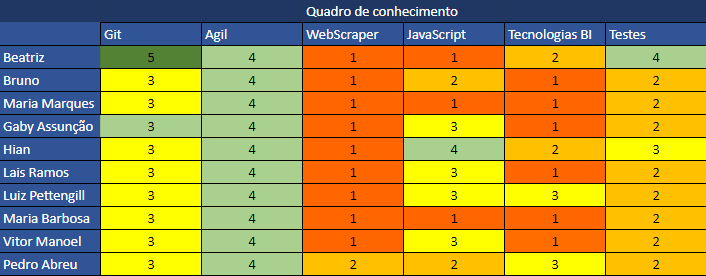
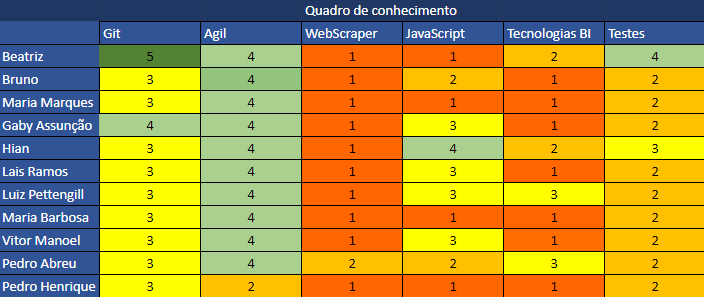
fix

diff --git a/docs/DocumentoDeArquitetura.md b/docs/DocumentoDeArquitetura.md
@@ -1,46 +1,68 @@
 # Documento de Arquitetura
+
 ## Histórico de Revisão
-| Data | Versão | Descrição | Autor
-| --- | --- | --- | --- | 
-| 01/02/2022 | 0.1 | início da criação dos tópicos da introdução | Maria Eduarda B. e Vitor Manoel|
-| 03/02/2022 | 0.2 | montagem da estrutura do documento e das tecnologias do tópico Representação arquitetural | Maria Eduarda B. e Vitor Manoel|
-| 06/02/2022 | 0.3 | criação dos conteúdos dos subtópicos 2.1 e 2.2 | Maria Eduarda B.|
-|  |  |  |  |
+
+| Data       | Versão | Descrição                                                                                 | Autor                                                                                     |
+| ---------- | ------ | ----------------------------------------------------------------------------------------- | ----------------------------------------------------------------------------------------- |
+| 01/02/2022 | 0.1    | início da criação dos tópicos da introdução                                               | [@Madu01](https://github.com/Madu01) e [@vitormanoel17](https://github.com/vitormanoel17) |
+| 03/02/2022 | 0.2    | montagem da estrutura do documento e das tecnologias do tópico Representação arquitetural | [@Madu01](https://github.com/Madu01) e [@vitormanoel17](https://github.com/vitormanoel17) |
+| 06/02/2022 | 0.3    | criação dos conteúdos dos subtópicos 2.1 e 2.2                                            | [@Madu01](https://github.com/Madu01)                                                      |
+|            |        |                                                                                           |                                                                                           |
+
 ## 1. Introdução
+
 ### 1.1 Escopo
 
 ### 1.2 Objetivo
+
 Este documento apresenta de forma ampla a arquitetura do software do projeto, como as tecnologias a serem utilizadas e os diagramas da visão geral da arquitetura. As informações apresentadas neste documento será de modo que guie os desenvolvedores e envolvidos a aplicar tais instruções no processo de desenvolvimento do projeto.
+
 ### 1.3 Abreviações e Termos
-| Sigla/Termo | Conceito | 
-| --- | --- | 
-|  |  |
+
+| Sigla/Termo | Conceito |
+| ----------- | -------- |
+|             |          |
+
 ## 2. Representação Arquitetural
+
 ### 2.1 HTML
-Em 1991 iniciou o HTML, sua abreviação é HyperText Markup Language, traduzindo para o português significa "Linguagem de Marcação de Hipertexto" e a sua versão mais recente é o HTML5, trazendo utilidades e meios para um melhor desenvolvimento web. A principal função do HTML é demarcar a estrutura de uma página da web. As estruturas demarcadas são os elementos que também são chamados de tags HTML. Na página esses elementos são textos (títulos, parágrafos e subtítulos), botões, imagens, áudios, etc..., ou seja, são hipertextos que juntos compõem a estrutura básica de uma página da web. 
 
-A estrutura das tags são iniciadas com o sinal “<”, logo depois vem o nome do elemento e terminam com o sinal “>” ` (ex.: <h1>)`. Há dois tipos de tags, as que precisam ser fechadas e as que já se fecham sozinhas. O fechamento definitivo de uma tag ocorre pela barra “/” `(ex.: <h1> Bom dia! </h1>)` e as que se fecham sozinhas não precisam da barra `(ex.: <img src="capa.jpg">)`.  
+Em 1991 iniciou o HTML, sua abreviação é HyperText Markup Language, traduzindo para o português significa "Linguagem de Marcação de Hipertexto" e a sua versão mais recente é o HTML5, trazendo utilidades e meios para um melhor desenvolvimento web. A principal função do HTML é demarcar a estrutura de uma página da web. As estruturas demarcadas são os elementos que também são chamados de tags HTML. Na página esses elementos são textos (títulos, parágrafos e subtítulos), botões, imagens, áudios, etc..., ou seja, são hipertextos que juntos compõem a estrutura básica de uma página da web.
 
-Para que o navegador consiga interpretar um documento em HTML, o arquivo deverá ter a extensão .html `(ex.: index.html)` e só assim o documento poderá ser lido e exposto por qualquer navegador web.  
+A estrutura das tags são iniciadas com o sinal “<”, logo depois vem o nome do elemento e terminam com o sinal “>” ` (ex.: <h1>)`. Há dois tipos de tags, as que precisam ser fechadas e as que já se fecham sozinhas. O fechamento definitivo de uma tag ocorre pela barra “/” `(ex.: <h1> Bom dia! </h1>)` e as que se fecham sozinhas não precisam da barra `(ex.: <img src="capa.jpg">)`.
 
-Essa tecnologia foi escolhida para o desenvolvimento do software do projeto por ser a estrutura mais básica na parte visual de um plugin numa página da web, nela vamos dá o início na aparência do plugin colocando a princípio os textos (títulos e subtítulos) e imagens. 
+Para que o navegador consiga interpretar um documento em HTML, o arquivo deverá ter a extensão .html `(ex.: index.html)` e só assim o documento poderá ser lido e exposto por qualquer navegador web.
+
+Essa tecnologia foi escolhida para o desenvolvimento do software do projeto por ser a estrutura mais básica na parte visual de um plugin numa página da web, nela vamos dá o início na aparência do plugin colocando a princípio os textos (títulos e subtítulos) e imagens.
+
 ### 2.2 CSS
-O CSS foi apresentado em 1994, sua abreviação é Cascading Style Sheets que em português significa “Folhas de Estilo em Cascatas”, ele melhora a aparência das páginas da internet estilizando os elementos que compõem as linguagens de marcação, como XML, HTML e XHTML. A princípio o CSS foi feito para separar o conteúdo e formato de um documento da sua aparência, sua última versão apresentada é o CSS3. 
 
-A estrutura básica do CSS é formada por seletor (escolhe o elemento a ser estilizado), declaração (especifica quais das propriedades do elemento vão ser estilizados), propriedades (o atributo do elemento ao qual será aplicada a regra) e o valor da propriedade (escolhe uma dentre muitas características possíveis para uma determinada propriedade, como a cor, o fundo a formatação da letra, etc.). A imagem abaixo ilustra melhor a estrutura: 
+O CSS foi apresentado em 1994, sua abreviação é Cascading Style Sheets que em português significa “Folhas de Estilo em Cascatas”, ele melhora a aparência das páginas da internet estilizando os elementos que compõem as linguagens de marcação, como XML, HTML e XHTML. A princípio o CSS foi feito para separar o conteúdo e formato de um documento da sua aparência, sua última versão apresentada é o CSS3.
+
+A estrutura básica do CSS é formada por seletor (escolhe o elemento a ser estilizado), declaração (especifica quais das propriedades do elemento vão ser estilizados), propriedades (o atributo do elemento ao qual será aplicada a regra) e o valor da propriedade (escolhe uma dentre muitas características possíveis para uma determinada propriedade, como a cor, o fundo a formatação da letra, etc.). A imagem abaixo ilustra melhor a estrutura:
 
 ![img_exemplo](https://user-images.githubusercontent.com/64814266/152714314-9cae6e74-588d-438c-99e6-8f6cefbfde05.png)
 
-A ação do CSS é feita por um documento cujo a extensão deverá ser .css `(ex.: estilo.css)` para que o arquivo possa funcionar. O arquivo em CSS é separado do arquivo em linguagem de marcação e ocorre um processo de linkar para que o documento em CSS seja ligado ao da linguagem de marcação, assim possibilitando a estilização das páginas com linguagens como HTML, XML, etc.  
+A ação do CSS é feita por um documento cujo a extensão deverá ser .css `(ex.: estilo.css)` para que o arquivo possa funcionar. O arquivo em CSS é separado do arquivo em linguagem de marcação e ocorre um processo de linkar para que o documento em CSS seja ligado ao da linguagem de marcação, assim possibilitando a estilização das páginas com linguagens como HTML, XML, etc.
 
-Utilizaremos esta tecnologia no desenvolvimento do nosso projeto por permitir uma flexibilização maior e controle na estilização da linguagem de marcação HTML, além disso, o CSS reduz a repetição do conteúdo estrutural de uma página. Desse modo HTML seria a base que estrutura o conteúdo e o CSS seria as características visuais do conteúdo, de modo simbólico o HTML seria as bordas de uma estrutura e o CSS preencheria o meio onde não há uma estilização. 
+Utilizaremos esta tecnologia no desenvolvimento do nosso projeto por permitir uma flexibilização maior e controle na estilização da linguagem de marcação HTML, além disso, o CSS reduz a repetição do conteúdo estrutural de uma página. Desse modo HTML seria a base que estrutura o conteúdo e o CSS seria as características visuais do conteúdo, de modo simbólico o HTML seria as bordas de uma estrutura e o CSS preencheria o meio onde não há uma estilização.
+
 ### 2.3 JavaScript
+
 ### 2.4 Web Scraper
+
 ## 3. Metas e Restrições arquiteturais
+
 ## 4. Visão de Casos de Uso
+
 ## 5. Visão Lógica
+
 ### 5.1 Visão Geral
+
 ### 5.2 Diagrama de Pacotes
+
 ## 6. Visão de Implementação
+
 ## 7. Referências
+
 > Documento de Arquitetura : Acácia. Disponível em: https://fga-eps-mds.github.io/2019.2-Acacia/#/architecture_document?id=documento-de-arquitetura. Acesso em 03/02/2022;

diff --git a/docs/DocumentoDeVisao.md b/docs/DocumentoDeVisao.md
@@ -2,10 +2,10 @@
 
 ## Histórico de Revisão
 
-| Data       | Versão | Descrição             | Autor(es)      |
-| ---------- | ------ | --------------------- | -------------- |
-| 31/01/2022 | 1.0    | Abertura do Documento | Bruno Oliveira |
-| 02/02/2022 | 1.1    | Adição do escopo e de mais algumas informações do projeto | Beatriz Santos, Hian Praxedes e Maria Eduarda Marques |
+| Data       | Versão | Descrição                                                 | Autor(es)                                                                                                                                             |
+| ---------- | ------ | --------------------------------------------------------- | ----------------------------------------------------------------------------------------------------------------------------------------------------- |
+| 31/01/2022 | 1.0    | Abertura do Documento                                     | [@eng-Bruno](https://github.com/eng-Bruno)                                                                                                            |
+| 02/02/2022 | 1.1    | Adição do escopo e de mais algumas informações do projeto | [@beatrizSO](https://github.com/beatrizSO), [@HianPraxedes](https://github.com/HianPraxedes) e [@EduardaSMarques](https://github.com/EduardaSMarques) |
 
 ## 1. Introdução
 
@@ -25,7 +25,6 @@ Assim tornando mais intuitivo a ultilização da plataforma para os usuários.
 | _SIGAA_    | Sistema Integrado de Gestão de Atividades Acadêmicas |
 | _MDS_      | Métodos de Desenvolvimento de Software               |
 
-
 ## 1.3 Referências:
 
 > Documento de Visão: IBM. Disponível em: https://www.ibm.com/docs/pt-br/elm/6.0.5?topic=requirements-vision-document. Acesso em 31/01/2022;
@@ -42,7 +41,6 @@ Neste documento é apresentado o software desenvolvido de forma detalhada, para 
 
 Com o aumento do uso do SIGAA sugiu uma necessidade criar de alguma ferramenta que auxiliasse no uso da plataforma, assim otimizando o tempo dos usuarios. Tendo em vista isso, buscamos suprir essa demanda com o (Nome do produto). Assim conseguindo cada vez mais uma praticidade para a vida do estudantes que ultilizam essa plataforma.
 
-
 ## 2.2 Descrição do Problema
 
 O atual sistema do SIGAA, durante a solicitação de matrícula não permite a visualização das matérias que o aluno já cursou nem as obrigatórias ou a quantidade de créditos que ainda faltam para a finalização do seu curso, nem as matérias que equivalem umas as outras, dificultando assim a visualização clara do aluno.
@@ -57,23 +55,23 @@ Para o aluno faz a matrícula. O (NossoProdutoSemNome) é um plugin que auxilia 
 
 ## 3.1 Demográficos de Mercado
 
-| Nome | Descrição | Responsabilidade |
-| - | - | - |
-| Avaliador(es) | Professor(es) da disciplina de MDS | Avaliar a qualidade do projeto desenvolvido pelos alunos de MDS |
-| Desenvolvedores | Estudantes da Disciplina MDS da UnB FGA | Criar e manter documentos; Desenvolver e testar o software |
+| Nome            | Descrição                               | Responsabilidade                                                |
+| --------------- | --------------------------------------- | --------------------------------------------------------------- |
+| Avaliador(es)   | Professor(es) da disciplina de MDS      | Avaliar a qualidade do projeto desenvolvido pelos alunos de MDS |
+| Desenvolvedores | Estudantes da Disciplina MDS da UnB FGA | Criar e manter documentos; Desenvolver e testar o software      |
 
 ## 3.2 Resumo da Parte Interessada
 
-| Nome      | Representa | Responsabilidade |
-| ----------- | ---------- | ------------------ |
-| Usuário do produto | Alunos da UNB | Utilizar as funcionalidades do plugin |
-| Equipe de Desenvolvimento |Equipe formada por alunos da disciplina de MDS| Documentar, desenvolver, testar e implementar o software |
-| Professora | Professora responsável pela disciplina de MDS | Orientar e avaliar os trabalhos realizados pelas equipes. |
+| Nome                      | Representa                                     | Responsabilidade                                          |
+| ------------------------- | ---------------------------------------------- | --------------------------------------------------------- |
+| Usuário do produto        | Alunos da UNB                                  | Utilizar as funcionalidades do plugin                     |
+| Equipe de Desenvolvimento | Equipe formada por alunos da disciplina de MDS | Documentar, desenvolver, testar e implementar o software  |
+| Professora                | Professora responsável pela disciplina de MDS  | Orientar e avaliar os trabalhos realizados pelas equipes. |
 
 ## 3.3 Resumo do Usuário
 
-| Nome      | Descrição | Parte Interessada |
-| ----------- | ---------- | ------------------ |
+| Nome             | Descrição                                                                 | Parte Interessada  |
+| ---------------- | ------------------------------------------------------------------------- | ------------------ |
 | Discentes da UNB | Este usuário será quem utilizará as funcionalidades disponíveis no plugin | Usuário do produto |
 
 ## 3.4 Ambiente do Usuário
@@ -84,13 +82,12 @@ Para o aluno faz a matrícula. O (NossoProdutoSemNome) é um plugin que auxilia 
 
 ## 3.7 Principais Necessidades da Parte Interessada ou do Usuário
 
-| Necessidade| Prioridade | Interesses      | Solução atual      |   Solução proposta |
-| ---------- | ------ | --------------------- | -------------- | -------------- |
-| Visualizar matérias equivalentes | 1.0   | Aluno | Procurar equivalências de matéria por matéria no SIGAA | Equivalências de todas as matérias listadas para o aluno |
-| Visualizar disciplinas que faltam na estrutura curricular | 1.0    | Aluno  | Download do histórico do aluno para a visualização das matérias que faltam ou buscar pela estrutura do curso |   Exibir as matérias restantes sem trabalho do aluno |
-| Visualizar graficos com a quantidade de créditos obrigatórios, optativos e módulo livre que falta para o término da graduação | 1.0    | Aluno  | Download do histórico, separação e soma da quantidade de matérias e créditos obrigatórios, optativos e de módulo livre | gráfico mostrando os créditos de cada modalidade |
+| Necessidade                                                                                                                   | Prioridade | Interesses | Solução atual                                                                                                          | Solução proposta                                         |
+| ----------------------------------------------------------------------------------------------------------------------------- | ---------- | ---------- | ---------------------------------------------------------------------------------------------------------------------- | -------------------------------------------------------- |
+| Visualizar matérias equivalentes                                                                                              | 1.0        | Aluno      | Procurar equivalências de matéria por matéria no SIGAA                                                                 | Equivalências de todas as matérias listadas para o aluno |
+| Visualizar disciplinas que faltam na estrutura curricular                                                                     | 1.0        | Aluno      | Download do histórico do aluno para a visualização das matérias que faltam ou buscar pela estrutura do curso           | Exibir as matérias restantes sem trabalho do aluno       |
+| Visualizar graficos com a quantidade de créditos obrigatórios, optativos e módulo livre que falta para o término da graduação | 1.0        | Aluno      | Download do histórico, separação e soma da quantidade de matérias e créditos obrigatórios, optativos e de módulo livre | gráfico mostrando os créditos de cada modalidade         |
 
 ## 3.8 Alternativas e Concorrência
 
 A alternativa atual é fazer todo o processo manualmente, avegando em vários locais difententes dentro do SIGAA, com buscas cansativas matéria por matéria e cálculos, dado que hoje não existem ferramentas que facilitem o processo.
-

diff --git a/README.md b/README.md
@@ -17,19 +17,28 @@ O Plugin Sigaa Aluno tem como principal objetivo facilitar o uso do software Sig
 
 <i>Release 02</i> - 26/04/2022 </strong>
 
+## ⚙ Tecnologias
+
+- [JavaScript](https://www.javascript.com/)
+
+- [Web Scraper](https://webscraper.io/)
+
 ## 🤝 Colaboradores
 
 | Nome                      | Github                                                     |
 | ------------------------- | ---------------------------------------------------------- |
-| Gabrielly Assunção        | [@GabriellyAssuncao](https://github.com/GabriellyAssuncao) |
-| Laís Ramos                | [@laisramos123](https://github.com/laisramos123)           |
+| Beatriz Santos            | [@beatrizSO](https://github.com/beatrizSO)                 |
 | Bruno Oliveira            | [@eng-Bruno](https://github.com/eng-Bruno)                 |
-| Luiz Guilherme Pettengill | [@LuizPettengill](https://github.com/LuizPettengill)       |
-| Pedro Henrique Elias      | [@Elios630](https://github.com/Elios630)                   |
-| Pedro Marcos Abreu        | [@ahbreu](https://github.com/ahbreu)                       |
+| Gabrielly Assunção        | [@GabriellyAssuncao](https://github.com/GabriellyAssuncao) |
 | Hian Praxedes             | [@HianPraxedes](https://github.com/HianPraxedes)           |
-| Vitor Manoel              | [@vitormanoel17](https://github.com/vitormanoel17)         |
+| Laís Ramos                | [@laisramos123](https://github.com/laisramos123)           |
+| Luiz Guilherme Pettengill | [@LuizPettengill](https://github.com/LuizPettengill)       |
 | Maria Eduarda Barbosa     | [@Madu01](https://github.com/Madu01)                       |
 | Maria Eduarda Marques     | [@EduardaSMarques](https://github.com/EduardaSMarques)     |
-| Beatriz Santos            | [@beatrizSO](https://github.com/beatrizSO)                 |
-| Filipe Pereira            | [@16bits](https://github.com/16bits)                       |
+| Pedro Henrique Elias      | [@Elios630](https://github.com/Elios630)                   |
+| Pedro Marcos Abreu        | [@ahbreu](https://github.com/ahbreu)                       |
+| Vitor Manoel              | [@vitormanoel17](https://github.com/vitormanoel17)         |
+
+## Licença
+
+GNU GENERAL PUBLIC LICENSE © Plugin Sigaa Aluno. [LICENSE](/LICENSE)

diff --git a/docs/sprints/sprint1/Planejamento.md b/docs/sprints/sprint1/Planejamento.md
@@ -1,14 +1,14 @@
 # Planejamento da Sprint 1
 
-- **Data de Início:** 01/02/2022
+- **Data de Início:** 25/01/2022
 
-- **Data de Término:** 07/02/2022
+- **Data de Término:** 01/02/2022
 
 ---
 
 ## Sprint 1
 
-Sprint com o objetivo de dar iniciar ao documento de visão, documento de arquitetura e termo de abertura de projeto, além de decidir e pesquisar sobre as ferramentas que serão utilizadas durante todo o desenvolvimento do projeto.
+Sprint com o objetivo de ajudar a equipe a se organizar ao ambiente onde será feito todo o projeto, definir papéis para cada integrante dentro da metodologia adotada e definir horário das reuniões semanais.
 
 ---
 
@@ -16,13 +16,12 @@ Sprint com o objetivo de dar iniciar ao documento de visão, documento de arquit
 
 ## Objetivos
 
-|                                      Issue                                       | Pontos |
-| :------------------------------------------------------------------------------: | :----: |
-| [Termo de Abertura de Projeto](https://github.com/fga-eps-mds/Tema-02/issues/10) |   1    |
-|      [Documento de Visão](https://github.com/fga-eps-mds/Tema-02/issues/11)      |   2    |
-|   [Documento de Arquitetura](https://github.com/fga-eps-mds/Tema-02/issues/12)   |   2    |
-|        [Dojo de github](https://github.com/fga-eps-mds/Tema-02/issues/13)        |   3    |
-|    Pesquisar [tecnologias](https://github.com/fga-eps-mds/Tema-02/issues/15)     |   2    |
-|   [Quadro de conhecimentos](https://github.com/fga-eps-mds/Tema-02/issues/16)    |   1    |
+|                                     Issue                                     | Pontos |
+| :---------------------------------------------------------------------------: | :----: |
+|      [Metodologia Ágil](https://github.com/fga-eps-mds/Tema-02/issues/4)      |   1    |
+|      Definir [Funções](https://github.com/fga-eps-mds/Tema-02/issues/5)       |   1    |
+|      Definir [Reuniões](https://github.com/fga-eps-mds/Tema-02/issues/6)      |   1    |
+| Realizar [estudos sobre TAP](https://github.com/fga-eps-mds/Tema-02/issues/8) |   1    |
+|  [Quadro de conhecimentos](https://github.com/fga-eps-mds/Tema-02/issues/16)  |   1    |
 
-<h4><i>Total de pontos planejados: 11</i></h4>
+<h4><i>Total de pontos planejados: 5</i></h4>

diff --git a/docs/sprints/sprint0/Resultado.md b/docs/sprints/sprint0/Resultado.md
@@ -2,9 +2,9 @@
 
 ## Visão Geral
 
-- **Data de Início:** 25/01/2022
+- **Data de Início:** 18/01/2022
 
-- **Data de Término:** 01/02/2022
+- **Data de Término:** 25/01/2022
 
 - **Duração:** 1 semana
 
@@ -12,15 +12,13 @@
 
 |                                       Issue                                       |  Status   | Pontos |
 | :-------------------------------------------------------------------------------: | :-------: | :----: |
-|        [Metodologia Ágil](https://github.com/fga-eps-mds/Tema-02/issues/4)        | Concluída |   1    |
-|        Definir [Funções](https://github.com/fga-eps-mds/Tema-02/issues/5)         | Concluída |   1    |
-|        Definir [Reuniões](https://github.com/fga-eps-mds/Tema-02/issues/6)        | Concluída |   1    |
 | Realizar [Treinamento de github](https://github.com/fga-eps-mds/Tema-02/issues/7) | Concluída |   1    |
-|   Realizar [estudos sobre TAP](https://github.com/fga-eps-mds/Tema-02/issues/8)   | Concluída |   1    |
 
 ---
 
 ## Quadro de conhecimento
+
+O quadro de conhecimentos do grupo é apresentado numa escala de 1 a 5, com o número 1 representando baixo conhecimento e o número 5 representando alto conhecimento sobre determinada ferramenta.
 
 ![Quadro Conhecimento 0](../../assets/quadroConhecimento0.png "Sprint 0 - Quadro de Conhecimento")
 
@@ -28,6 +26,6 @@
 
 ## Análise do Scrum Master
 
-Durante a semana o grupo fez 3 encontros para se organizar e se ambientar com o Github. Durante essas reuniões foram determinados os papéis de cada integrante no projeto.
+Durante a semana o grupo fez pesquisas e estudou sobre as funcionalidades do GitHub, para ter um melhor conhecimento sobre a ferramenta que será utilizada durante todo o desenvolvimento do projeto.
 
 A sprint atingiu a proposta apresentada.

diff --git a/docs/sprints/sprint0/Planejamento.md b/docs/sprints/sprint0/Planejamento.md
@@ -1,14 +1,14 @@
 # Planejamento da Sprint 0
 
-- **Data de Início:** 25/01/2022
+- **Data de Início:** 18/01/2022
 
-- **Data de Término:** 01/02/2022
+- **Data de Término:** 25/01/2022
 
 ---
 
-## Sprint 0
+## Sprint 1
 
-Sprint com o objetivo de ajudar a equipe a se organizar ao ambiente onde será feito todo o projeto, definir papéis para cada integrante dentro da metodologia adotada e definir horário das reuniões semanais.
+Sprint com o objetivo de estudar e treinar as funcionalidades do GitHub.
 
 ---
 
@@ -18,10 +18,6 @@ Sprint com o objetivo de ajudar a equipe a se organizar ao ambiente onde será f
 
 |                                       Issue                                       | Pontos |
 | :-------------------------------------------------------------------------------: | :----: |
-|        [Metodologia Ágil](https://github.com/fga-eps-mds/Tema-02/issues/4)        |   1    |
-|        Definir [Funções](https://github.com/fga-eps-mds/Tema-02/issues/5)         |   1    |
-|        Definir [Reuniões](https://github.com/fga-eps-mds/Tema-02/issues/6)        |   1    |
 | Realizar [Treinamento de github](https://github.com/fga-eps-mds/Tema-02/issues/7) |   1    |
-|   Realizar [estudos sobre TAP](https://github.com/fga-eps-mds/Tema-02/issues/8)   |   1    |
 
-<h4><i>Total de pontos planejados: 5</i></h4>
+<h4><i>Total de pontos planejados: 1</i></h4>

diff --git a/docs/sprints/sprint1/Resultado.md b/docs/sprints/sprint1/Resultado.md
@@ -1,0 +1,32 @@
+# Resultado da Sprint 1
+
+## Visão Geral
+
+- **Data de Início:** 25/01/2022
+
+- **Data de Término:** 01/02/2022
+
+- **Duração:** 1 semana
+
+## Revisão
+
+|                                     Issue                                     |  Status   | Pontos |
+| :---------------------------------------------------------------------------: | :-------: | :----: |
+|      [Metodologia Ágil](https://github.com/fga-eps-mds/Tema-02/issues/4)      | Concluída |   1    |
+|      Definir [Funções](https://github.com/fga-eps-mds/Tema-02/issues/5)       | Concluída |   1    |
+|      Definir [Reuniões](https://github.com/fga-eps-mds/Tema-02/issues/6)      | Concluída |   1    |
+| Realizar [estudos sobre TAP](https://github.com/fga-eps-mds/Tema-02/issues/8) | Concluída |   1    |
+
+---
+
+## Quadro de conhecimento
+
+![Quadro Conhecimento 0](../../assets/quadroConhecimento0.png "Sprint 0 - Quadro de Conhecimento")
+
+---
+
+## Análise do Scrum Master
+
+Durante a semana o grupo fez 3 encontros para se organizar e se ambientar com o Github. Durante essas reuniões foram determinados os papéis de cada integrante no projeto.
+
+A sprint atingiu a proposta apresentada.

diff --git a/docs/sprints/sprint2/Planejamento.md b/docs/sprints/sprint2/Planejamento.md
@@ -1,0 +1,27 @@
+# Planejamento da Sprint 2
+
+- **Data de Início:** 01/02/2022
+
+- **Data de Término:** 07/02/2022
+
+---
+
+## Sprint 2
+
+Sprint com o objetivo de dar iniciar ao documento de visão, documento de arquitetura e termo de abertura de projeto, além de decidir e pesquisar sobre as ferramentas que serão utilizadas durante todo o desenvolvimento do projeto.
+
+---
+
+> [Sprint Backlog](https://github.com/fga-eps-mds/Tema-02/milestone/3)
+
+## Objetivos
+
+|                                      Issue                                       | Pontos |
+| :------------------------------------------------------------------------------: | :----: |
+| [Termo de Abertura de Projeto](https://github.com/fga-eps-mds/Tema-02/issues/10) |   1    |
+|      [Documento de Visão](https://github.com/fga-eps-mds/Tema-02/issues/11)      |   2    |
+|   [Documento de Arquitetura](https://github.com/fga-eps-mds/Tema-02/issues/12)   |   2    |
+|        [Dojo de github](https://github.com/fga-eps-mds/Tema-02/issues/13)        |   3    |
+|    Pesquisar [tecnologias](https://github.com/fga-eps-mds/Tema-02/issues/15)     |   2    |
+
+<h4><i>Total de pontos planejados: 11</i></h4>
